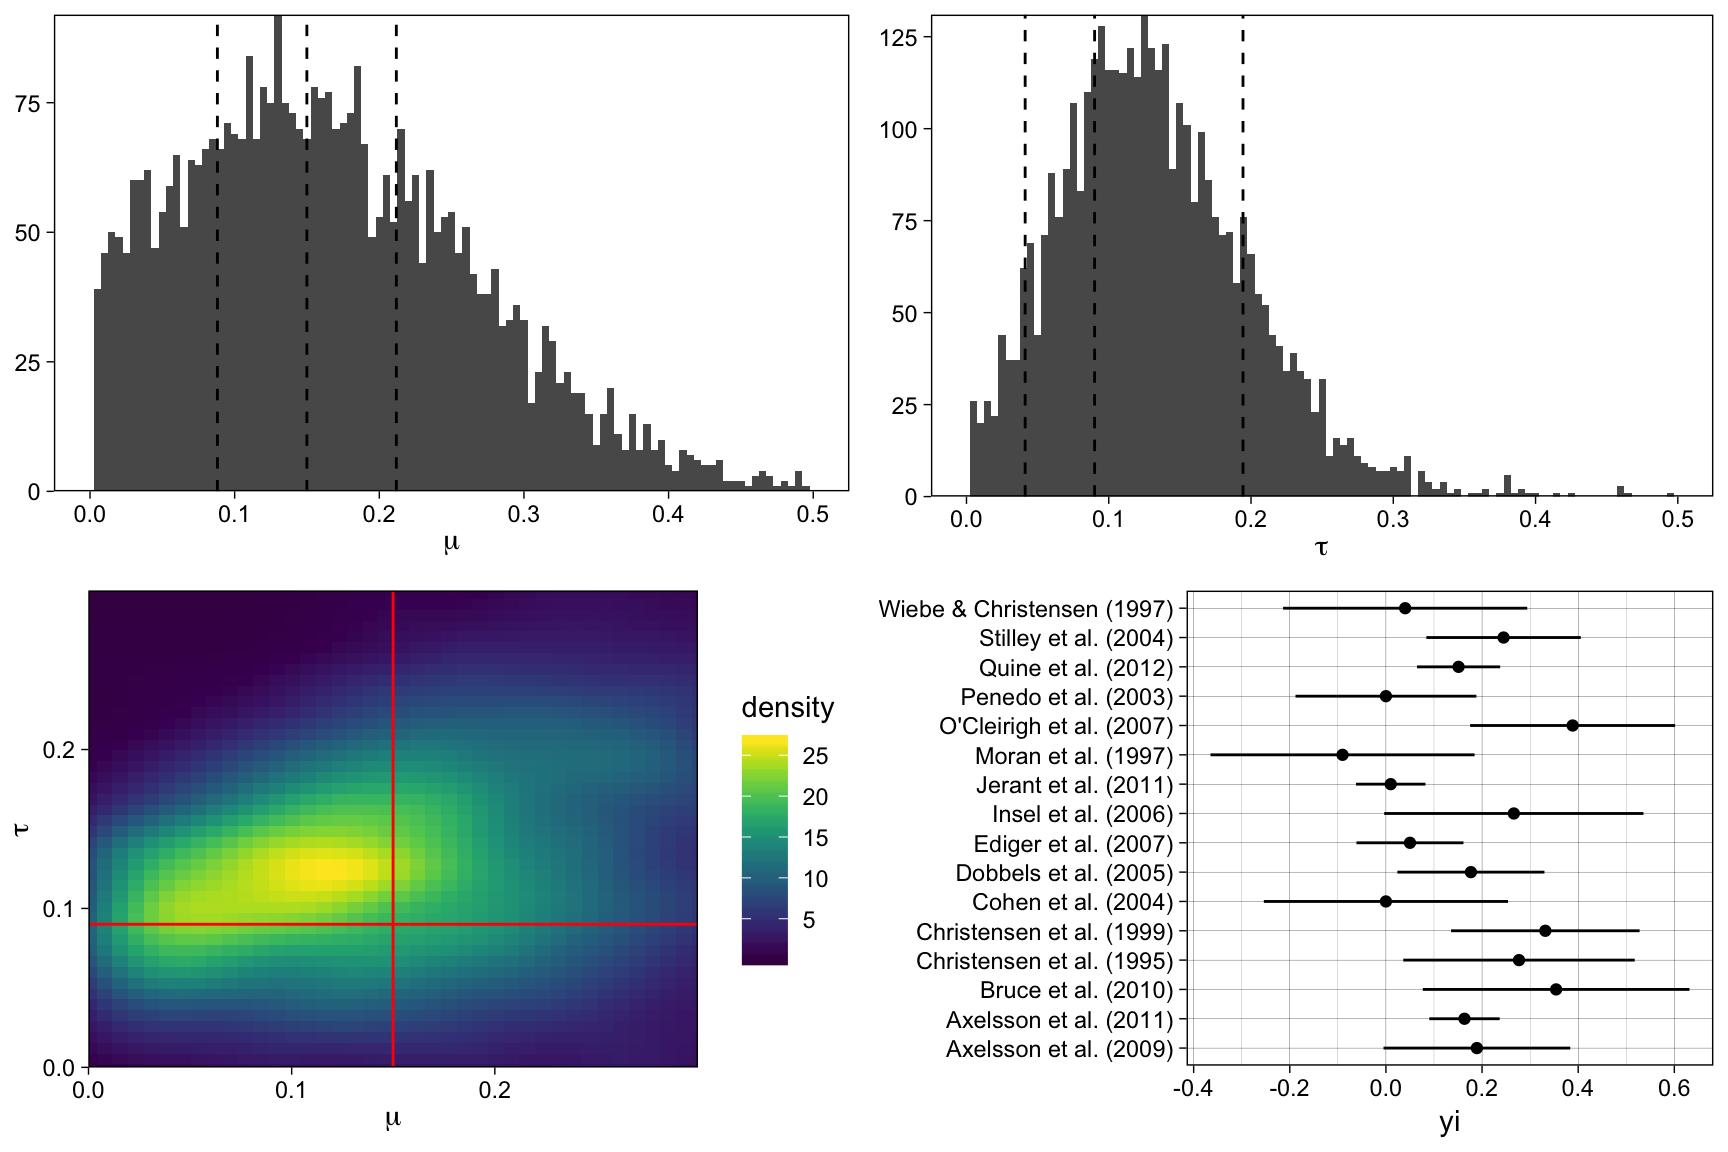
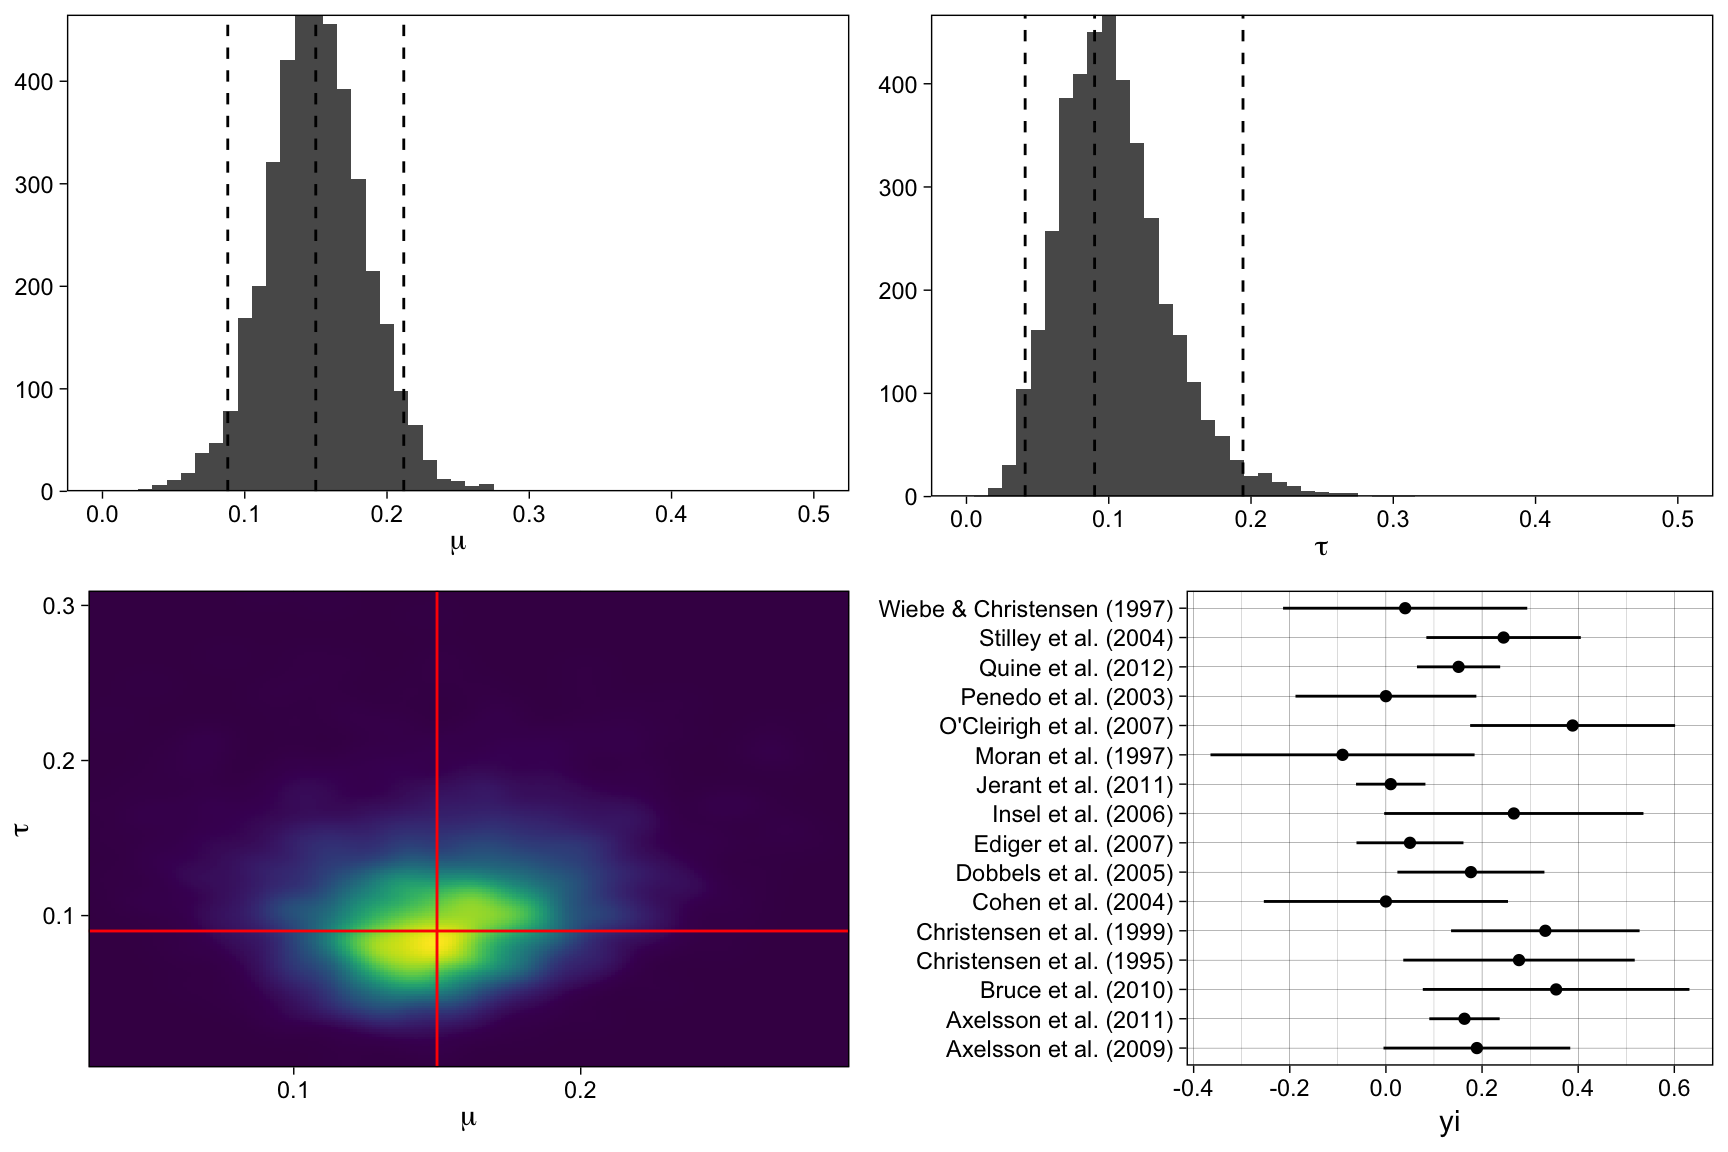
Post edited

diff --git a/content/post/2016-09-29-bayesian-meta-analysis.html b/content/post/2016-09-29-bayesian-meta-analysis.html
@@ -10,7 +10,7 @@ tags: ["R", "bayes", "tutorial", "brms"]
 
 
 <script type="text/javascript" async
-  src="https://cdn.mathjax.org/mathjax/latest/MathJax.js?config=TeX-MML-AM_CHTML">
+src="https://cdn.mathjax.org/mathjax/latest/MathJax.js?config=TeX-MML-AM_CHTML">
 </script>
 <div id="introduction" class="section level1">
 <h1>Introduction</h1>
@@ -187,8 +187,8 @@ library(tidyverse)</code></pre>
 <p>Here’s what these data look like (point estimates +- 2 SEM):</p>
 <pre class="r"><code>library(ggplot2)
 ggplot(dat, aes(x=yi, y=study)) +
-    geom_segment(aes(x = yi-sei*2, xend = yi+sei*2, y=study, yend=study)) +
-    geom_point()</code></pre>
+  geom_segment(aes(x = yi-sei*2, xend = yi+sei*2, y=study, yend=study)) +
+  geom_point()</code></pre>
 <p><img src="/post/2016-09-29-bayesian-meta-analysis_files/figure-html/plot-fake-data-1.png" width="864" style="display: block; margin: auto;" /></p>
 </div>
 <div id="the-model" class="section level1">
@@ -242,10 +242,13 @@ summary(ma_out)</code></pre>
 <h2>Estimation with brms</h2>
 <p>Here’s how to fit this model with brms:</p>
 <pre class="r"><code>library(brms)
-brm_out &lt;- brm(yi | se(sei) ~ 1 + (1|study), 
-               prior = set_prior(&quot;uniform(0, 1000)&quot;, class = &quot;sd&quot;),
-               data = dat, iter = 5000, warmup = 2000, cores = 4,
-               file = here::here(&quot;static/data/metaanalysismodel&quot;))</code></pre>
+brm_out &lt;- brm(
+  yi | se(sei) ~ 1 + (1 | study), 
+  prior = set_prior(&quot;uniform(0, 1000)&quot;, class = &quot;sd&quot;),
+  data = dat, 
+  cores = 4,
+  file = here::here(&quot;static/data/metaanalysismodel&quot;)
+)</code></pre>
 <pre><code>#  Family: gaussian 
 #   Links: mu = identity; sigma = identity 
 # Formula: yi | se(sei) ~ 1 + (1 | study) 
@@ -272,7 +275,7 @@ brm_out &lt;- brm(yi | se(sei) ~ 1 + (1|study),
 <h1>Comparing results</h1>
 <p>We can now compare the results of these two estimation methods. Of course, the Bayesian method has a tremendous advantage, because it results in an actual distribution of plausible values, whereas the frequentist method gives us just point estimates.</p>
 <p><img src="/post/2016-09-29-bayesian-meta-analysis_files/figure-html/unnamed-chunk-4-1.png" width="864" style="display: block; margin: auto;" />
-<em>Figure 1.</em> Histogram of 80k samples from the posterior distribution of <span class="math inline">\(\mu\)</span> (top left) and <span class="math inline">\(\tau\)</span> (top right). Bottom left displays the multivariate posterior distribution of <span class="math inline">\(\mu\)</span> (x-axis) and <span class="math inline">\(\tau\)</span> (y-axis), light colors indicating increased plausibility of values. For each plot, the dashed lines display the maximum likelihood point estimate, and 95% confidence limits (only the point estimate is displayed for the multivariate figure.)</p>
+<em>Figure 1.</em> Histogram of samples from the posterior distribution of <span class="math inline">\(\mu\)</span> (top left) and <span class="math inline">\(\tau\)</span> (top right). Bottom left displays the multivariate posterior distribution of <span class="math inline">\(\mu\)</span> (x-axis) and <span class="math inline">\(\tau\)</span> (y-axis), light colors indicating increased plausibility of values. For each plot, the dashed lines display the maximum likelihood point estimate, and 95% confidence limits (only the point estimate is displayed for the multivariate figure.)</p>
 <p>We can see from the numeric output, and especially the figures, that these modes of inference yield the same numerical results. Keep in mind though, that the Bayesian estimates actually allow you to discuss probabilities, and generally the things that we’d like to discuss when talking about results.</p>
 <p>For example, what is the probability that the average effect size is greater than 0.2?</p>
 <pre class="r"><code>avg_es &lt;- as.data.frame(brm_out, pars = &quot;b_&quot;)[,1]
@@ -286,8 +289,8 @@ forest(brm_out,
        show_data = TRUE,
        av_name = &quot;Effect size&quot;)</code></pre>
 <p><img src="/post/2016-09-29-bayesian-meta-analysis_files/figure-html/draw-forest-plot-1.png" width="864" style="display: block; margin: auto;" /></p>
-<p>This forest plot displays the entire posterior distribution of each <span class="math inline">\(\theta_i\)</span>. The meta-analytic effect size <span class="math inline">\(\mu\)</span> is also displayed in the bottom row. The mean and 95% CI limits of the posteriors are also displayed on the right in text form for all you precision fans. The plot also shows each study’s <em>observed</em> mean effect size as a little star.</p>
-<p>Focus on Moran et al. (1997)’s observed effect size (the star): This is a really anomalous result compared to all other studies. One might describe it as <em>incredible</em>, and that is indeed what the bayesian estimation procedure has done, and the resulting posterior distribution is no longer equivalent to the observed effect size. Instead, it is shrunken toward the average effect size. Now look at the table above, this study only had 56 participants, so we <em>should</em> be more skeptical of this study’s observed ES, and perhaps we <em>should</em> then adjust our beliefs about this study in the context of other studies. Therefore, our best guess about this study’s effect size, <em>given all the other studies</em> is no longer the observed mean, but something closer to the average across the studies. Fantastic. Brilliant, even.</p>
+<p>This forest plot displays the entire posterior distribution of each <span class="math inline">\(\theta_i\)</span>. The meta-analytic effect size <span class="math inline">\(\mu\)</span> is also displayed in the bottom row. The mean and 95% CI limits of the posteriors are also displayed on the right in text form for all you precision fans. The plot also shows each study’s <em>observed</em> mean effect size as an empty circle.</p>
+<p>Focus on Moran et al. (1997)’s observed effect size (the empty circle): This is an anomalous result compared to all other studies. One might describe it as <em>incredible</em>, and that is indeed what the bayesian estimation procedure has done, and the resulting posterior distribution is no longer equivalent to the observed effect size. Instead, it is shrunken toward the average effect size. Now look at the table above, this study only had 56 participants, so we <em>should</em> be more skeptical of this study’s observed ES, and perhaps we <em>should</em> then adjust our beliefs about this study in the context of other studies. Therefore, our best guess about this study’s effect size, <em>given all the other studies</em> is no longer the observed mean, but something closer to the average across the studies.</p>
 <p>If this shrinkage business seems radical, consider Quine et al. (2012). This study had a much greater sample size (537), and therefore a smaller SE. It was also generally more in line with the average effect size estimate. Therefore, the observed mean ES and the mean of the posterior distribution are pretty much identical. This is also a fairly desirable feature.</p>
 </div>
 </div>
